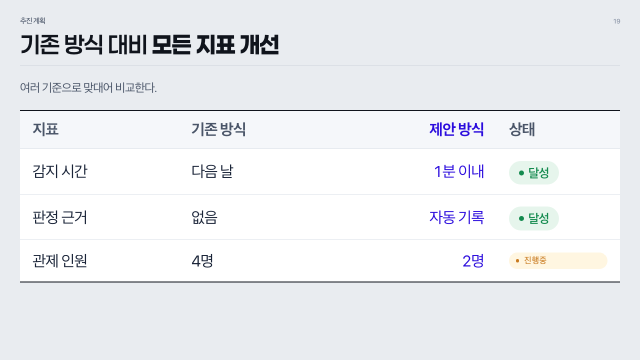
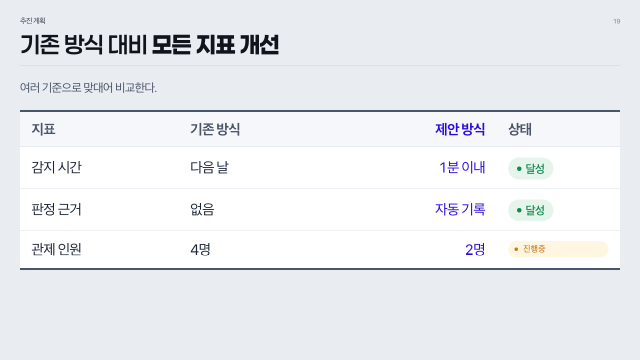
표 글자 24 → 22px, 위아래 선을 4px 회색(--text-mid)으로

diff --git a/docs/templates/deck.html b/docs/templates/deck.html
@@ -27,7 +27,7 @@ deck-stage:not(:defined){visibility:hidden;}
 .slide{--k:1;
   --fs-body:calc(18px * var(--k));--fs-small:calc(16px * var(--k));
   --fs-card:calc(24px * var(--k));--fs-stat:calc(34px * var(--k));
-  --fs-table:calc(24px * var(--k));--fs-tableh:calc(24px * var(--k));
+  --fs-table:calc(22px * var(--k));--fs-tableh:calc(22px * var(--k));
   --gap:calc(12px * var(--k));
 }
 *,*::before,*::after{box-sizing:border-box;margin:0;padding:0;}
@@ -86,9 +86,9 @@ ul.rl.row li .v{display:inline;margin-left:.5em;}
 .stat .sv small{font-size:.5em;color:var(--text);margin-left:.05em;font-weight:700;}
 .stat .sn{font-size:var(--fs-small);color:var(--primary-2);font-weight:700;margin-top:.5em;line-height:1.4;}
 /* kv table (minimal): label column grey, values, bold last row; emphasize col tinted */
-/* 표 — SAFE AI 디자인 시스템 Data Table: 위·아래 2px 검정 선으로 시작·끝, 안쪽은 1px 연회색 선(세로선 없음).
+/* 표 — SAFE AI 디자인 시스템 Data Table: 위·아래 4px 회색(--text-mid) 선으로 시작·끝, 안쪽은 1px 연회색 선(세로선 없음).
    머리글(타이틀 영역)은 연회색 바탕·회색 글자. rowHeader 면 첫 열도 타이틀 영역(연회색 바탕·회색 글자 + 오른쪽 1px 선). 강조 열은 글자색만 포인트 컬러 */
-table.rt{width:100%;border-collapse:collapse;font-size:calc(var(--fs-table) * var(--kt, 1));background:#fff;table-layout:fixed;text-align:left;border-top:2px solid var(--title);border-bottom:2px solid var(--title);}
+table.rt{width:100%;border-collapse:collapse;font-size:calc(var(--fs-table) * var(--kt, 1));background:#fff;table-layout:fixed;text-align:left;border-top:4px solid var(--text-mid);border-bottom:4px solid var(--text-mid);}
 .rt thead th{background:var(--bg-soft);color:var(--text-mid);font-weight:700;text-align:left;padding:.55em .8em;border:0;border-bottom:1px solid var(--border);font-size:calc(var(--fs-tableh) * var(--kt, 1));line-height:1.3;word-break:keep-all;overflow-wrap:anywhere;vertical-align:middle;}   /* 머리글도 칸이 좁으면 줄바꿈 */
 .rt thead th.em{color:var(--primary);}
 .rt tbody td{padding:.6em .8em;border:0;word-break:keep-all;overflow-wrap:anywhere;border-bottom:1px solid var(--border);vertical-align:middle;color:var(--text);background:transparent;text-align:left;line-height:1.45;}

diff --git a/docs/design/index.html b/docs/design/index.html
@@ -256,9 +256,9 @@ tr.dirty .val input{border-color:var(--acc);color:var(--acc)}
 .d-banner .msg .rl li{color:var(--p-btext);font-size:calc(var(--fs-small)*var(--k));gap:.35em}
 .d-banner .msg .rl li::before{color:var(--p-btext)}
 .d-banner .msg .rl{gap:.35em}
-/* 표 — SAFE AI Data Table: 위·아래 2px 검정 선, 안쪽 1px 연회색 선, 타이틀 영역 연회색 바탕·회색 글자 */
+/* 표 — SAFE AI Data Table: 위·아래 4px 회색 선, 안쪽 1px 연회색 선, 타이틀 영역 연회색 바탕·회색 글자 */
 .d-tbl{width:100%;border-collapse:collapse;font-size:calc(var(--fs-table)*var(--k));background:#fff;table-layout:fixed;text-align:left;
-  border-top:2px solid #10141C;border-bottom:2px solid #10141C}
+  border-top:4px solid #4A5568;border-bottom:4px solid #4A5568}
 .d-tbl th{background:#F5F7FA;color:#4A5568;font-weight:700;text-align:left;padding:.55em .8em;
   border:0;border-bottom:1px solid #D9DEE6;font-size:calc(var(--fs-tableh)*var(--k));line-height:1.3;white-space:nowrap}
 .d-tbl th.em{color:var(--p)}
@@ -560,8 +560,8 @@ function derive(primary,secondary){
 
 /* ── state ── */
 var DENSITY={
-  dense:{body:18,small:16,cardTitle:24,stat:34,table:24,tableH:24,gap:12},
-  airy: {body:18,small:16,cardTitle:24,stat:34,table:24,tableH:24,gap:12}
+  dense:{body:18,small:16,cardTitle:24,stat:34,table:22,tableH:22,gap:12},
+  airy: {body:18,small:16,cardTitle:24,stat:34,table:22,tableH:22,gap:12}
 };
 var DEFAULTS={
   density:'dense', k:1,

diff --git a/skills/ppt-maker/app/design-system.html b/skills/ppt-maker/app/design-system.html
@@ -256,9 +256,9 @@ tr.dirty .val input{border-color:var(--acc);color:var(--acc)}
 .d-banner .msg .rl li{color:var(--p-btext);font-size:calc(var(--fs-small)*var(--k));gap:.35em}
 .d-banner .msg .rl li::before{color:var(--p-btext)}
 .d-banner .msg .rl{gap:.35em}
-/* 표 — SAFE AI Data Table: 위·아래 2px 검정 선, 안쪽 1px 연회색 선, 타이틀 영역 연회색 바탕·회색 글자 */
+/* 표 — SAFE AI Data Table: 위·아래 4px 회색 선, 안쪽 1px 연회색 선, 타이틀 영역 연회색 바탕·회색 글자 */
 .d-tbl{width:100%;border-collapse:collapse;font-size:calc(var(--fs-table)*var(--k));background:#fff;table-layout:fixed;text-align:left;
-  border-top:2px solid #10141C;border-bottom:2px solid #10141C}
+  border-top:4px solid #4A5568;border-bottom:4px solid #4A5568}
 .d-tbl th{background:#F5F7FA;color:#4A5568;font-weight:700;text-align:left;padding:.55em .8em;
   border:0;border-bottom:1px solid #D9DEE6;font-size:calc(var(--fs-tableh)*var(--k));line-height:1.3;white-space:nowrap}
 .d-tbl th.em{color:var(--p)}
@@ -560,8 +560,8 @@ function derive(primary,secondary){
 
 /* ── state ── */
 var DENSITY={
-  dense:{body:18,small:16,cardTitle:24,stat:34,table:24,tableH:24,gap:12},
-  airy: {body:18,small:16,cardTitle:24,stat:34,table:24,tableH:24,gap:12}
+  dense:{body:18,small:16,cardTitle:24,stat:34,table:22,tableH:22,gap:12},
+  airy: {body:18,small:16,cardTitle:24,stat:34,table:22,tableH:22,gap:12}
 };
 var DEFAULTS={
   density:'dense', k:1,

diff --git a/skills/ppt-maker/references/design-system.md b/skills/ppt-maker/references/design-system.md
@@ -22,7 +22,7 @@
 - **지표 카드**: 왼쪽 2행 표(라벨 열 연회색, 마지막 행 굵게) + 오른쪽 연파랑 강조 박스(작은 라벨 + 큰 수치 "18% 증가"). **큰 수치(stat)**: 작은 지표명 → 큰 숫자(단위는 절반 크기) → 파란 보조 문장.
 - **그래프(chart)**(2026-09-30, [shadcn/ui Charts](https://ui.shadcn.com/charts) 를 따름): 회색 패널 없이 카드 위에 바로. 왼쪽 제목·오른쪽 "단위 : …". 가로 격자선만(연한 테두리색), 축선·눈금선 없음, X 라벨만. 막대는 위 모서리만 둥글게(한 시리즈 5px, 여러 시리즈 3px), 선은 부드러운 곡선 + 선 색으로 채운 점, 값 라벨은 위. 범례는 아래 가운데(작은 둥근 네모). 색은 브랜드 팔레트 순서(primary-2 → primary → teal → gold). PPTX 는 같은 규칙이되 막대 모서리 둥글리기만 없음. 같은 종류 그래프는 형식 통일.
 - **간트(gantt)**(2026-10-01): 왼쪽 항목 이름 열(24%, 중간 굵기), 위 기간 라벨(회색) + 밑줄, 칸마다 세로 격자선(연한 테두리색), 행마다 가로 막대(행 높이의 40%, 포인트 컬러, 모서리 3px). `second` 파랑·`accent` 청록·`muted` 회색. 가로 구분선·행 배경은 없음. 한 장에 행 3~8개, 칸 4~12개.
-- **표**(2026-10-04, Figma SAFE AI 디자인 시스템 Data Table 을 따름): 시작·끝은 **2px 검정 선**(`--title`), 안쪽 행 구분은 1px 연회색 선(`--border`), 세로선 없음. **타이틀 영역(머리글 행)** 은 연회색 바탕(`--bg-soft`)·**굵게(bold)·회색 글자(`--text-mid`)**. **본문 칸은 보통 굵기(regular)·검정(`--text`)**. **세로 타이틀이 있는 표(`rowHeader: true`)** 는 첫 열도 타이틀 영역 — 연회색 바탕·굵게·회색 글자, 오른쪽 1px 선. 첫 칸이 합계·총계·평균인 행만 연회색 바탕·굵게. 숫자 칸이 절반 넘는 열은 오른쪽 정렬(tabular-nums). 강조 열만 머리글 포인트 컬러 글자(밑줄은 다른 열과 같은 1px 선), 칸은 글자색만 포인트 컬러(바탕 칠하지 않음, 굵기 그대로). **카드 안 작은 표(라벨·값 두 칸, `rows`)** 는 표가 아니라 값 목록처럼: 위·아래 검정 선 없음, 라벨 회색(`--text-mid`), 값 오른쪽 정렬·굵게, 행 사이 1px 선. **크기는 내용에 맞춘다**: `widths` 가 없으면 열 너비를 칸 글자 양에 맞춰 나누고(긴 글 열은 넓게, 숫자 열은 좁게, 열마다 최소 8%), 머리글도 칸이 좁으면 줄바꿈한다. 세로는 본문 배율(`--k`)을 0.75까지 줄이고, 그래도 넘치면 표 글자만 0.75배(`--kt`, 약 10pt)까지 더 줄인다. 그래도 한 장에 안 들어가는 표는 빌드할 때 행을 고르게 나눠 여러 장으로 편다(머리글 반복, 제목 뒤 "(계속)", 표 위 블록은 첫 장·아래 블록은 마지막 장).
+- **표**(2026-10-04, Figma SAFE AI 디자인 시스템 Data Table 을 따름): 시작·끝은 **4px 회색 선**(`--text-mid` #4A5568, 2026-10-09 검정 2px 에서 바꿈), 안쪽 행 구분은 1px 연회색 선(`--border`), 세로선 없음. **타이틀 영역(머리글 행)** 은 연회색 바탕(`--bg-soft`)·**굵게(bold)·회색 글자(`--text-mid`)**. **본문 칸은 보통 굵기(regular)·검정(`--text`)**. **세로 타이틀이 있는 표(`rowHeader: true`)** 는 첫 열도 타이틀 영역 — 연회색 바탕·굵게·회색 글자, 오른쪽 1px 선. 첫 칸이 합계·총계·평균인 행만 연회색 바탕·굵게. 숫자 칸이 절반 넘는 열은 오른쪽 정렬(tabular-nums). 강조 열만 머리글 포인트 컬러 글자(밑줄은 다른 열과 같은 1px 선), 칸은 글자색만 포인트 컬러(바탕 칠하지 않음, 굵기 그대로). **카드 안 작은 표(라벨·값 두 칸, `rows`)** 는 표가 아니라 값 목록처럼: 위·아래 검정 선 없음, 라벨 회색(`--text-mid`), 값 오른쪽 정렬·굵게, 행 사이 1px 선. **크기는 내용에 맞춘다**: `widths` 가 없으면 열 너비를 칸 글자 양에 맞춰 나누고(긴 글 열은 넓게, 숫자 열은 좁게, 열마다 최소 8%), 머리글도 칸이 좁으면 줄바꿈한다. 세로는 본문 배율(`--k`)을 0.75까지 줄이고, 그래도 넘치면 표 글자만 0.75배(`--kt`, 약 10pt)까지 더 줄인다. 그래도 한 장에 안 들어가는 표는 빌드할 때 행을 고르게 나눠 여러 장으로 편다(머리글 반복, 제목 뒤 "(계속)", 표 위 블록은 첫 장·아래 블록은 마지막 장).
 - **배너(callout)**(2026-10-08 밝게 반전): 메인 컬러를 아주 연하게 깐 둥근 박스(`--banner` = 메인 12% · 보라면 연보라) + 메인 컬러를 연하게 한 테두리 1.5px(`--banner-border` = 메인 40%)로 연회색 장표 바탕과 구분한다. **라벨("특이사항"/"참고"/"핵심 요약")은 박스 안 왼쪽**에 포인트 컬러(`--banner-label`) 15pt 굵게, 본문 불릿은 오른쪽에 회색(`--banner-text` #515B75) 14pt, 본문 안 굵은 글씨는 포인트 컬러. 밖으로 걸치는 흰 칩은 쓰지 않는다. 배너는 **낮게** 쓴다: 안쪽 여백 `.75em 1.6em`(small 기준), 라벨–본문 간격 1.6em, 줄 사이 ≤0.35em.
 - **비교(compare)**: 라벨 칩(AS-IS 회색 / TO-BE 네이비)이 달린 두 카드, 오른쪽 연파랑, 가운데 › 화살표. **로드맵**: 선 + 네이비 번호 원 + 흰 단계 카드(마지막 `darkLast` 반전). **이미지**: 흰 카드 안, 없는 이미지는 점선 자리표시자. **이미지 상자는 기본 16:9**(`ratio` 로 `4:3`·`1:1`·`9:16`·`3:4`·`original`). 칸의 너비·높이 중 작은 쪽에 맞춰 비율을 지키고 원본은 가장자리를 잘라 채운다(cover). `original` 만 원본 비율 그대로(contain).
 - **표지/마무리**: `meta.coverBg` 로 고른 배경 3종 중 하나(soft·grid·band). 표지는 설명줄 → 제목 → 왼쪽 아래 로고 → 오른쪽 아래 상자 네 덩어리만 쓴다. 자세한 좌표는 아래 '표지·목차 글자 규격'.
@@ -45,7 +45,7 @@
 | body2 | Pretendard Light | 18pt | 고정 26.6pt | −0.8pt | 표지 설명줄 |
 
 본문 안쪽 글자는 읽는 방식(dense·airy)에 상관없이 같은 값을 쓴다.
-본문 18px, 작은 글 16px, 카드 제목 24px, 큰 수치 34px, 표 24px, 칸 사이 12px 이다.
+본문 18px, 작은 글 16px, 카드 제목 24px, 큰 수치 34px, 표 22px, 칸 사이 12px 이다.
 장표마다 넘치지 않게 `fit_slides` 가 배율을 따로 매기므로, 두 방식의 차이는 배율 상한에만 남는다.
 
 Paperlogy·Pretendard 는 굵기마다 패밀리 이름이 따로 있다(`Paperlogy 7 Bold`, `Pretendard Light`).
